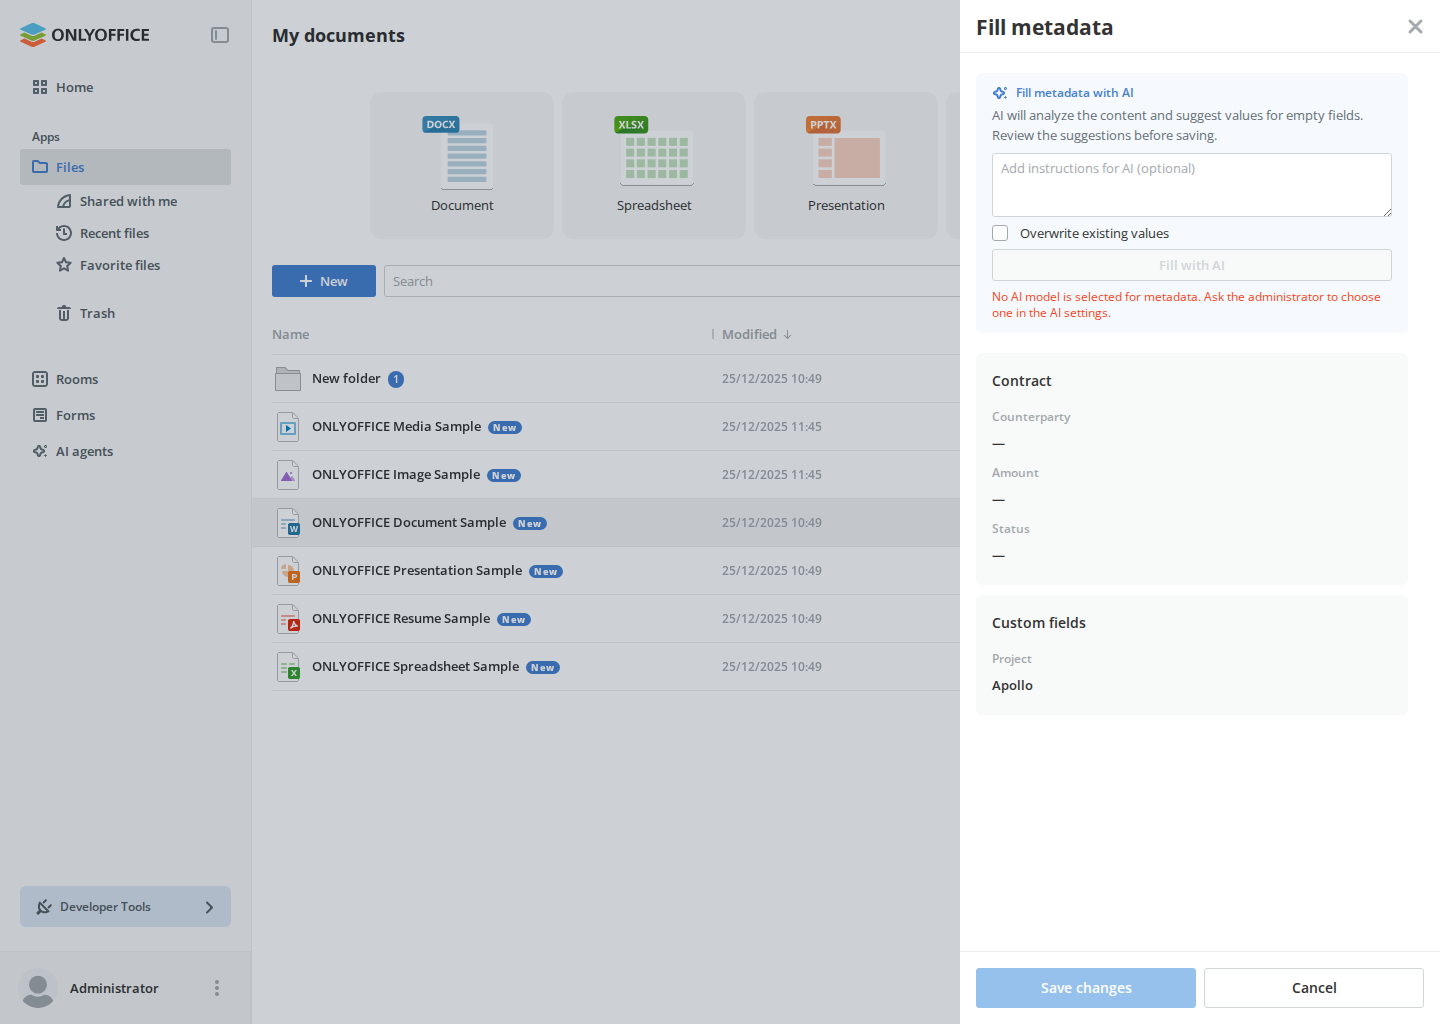
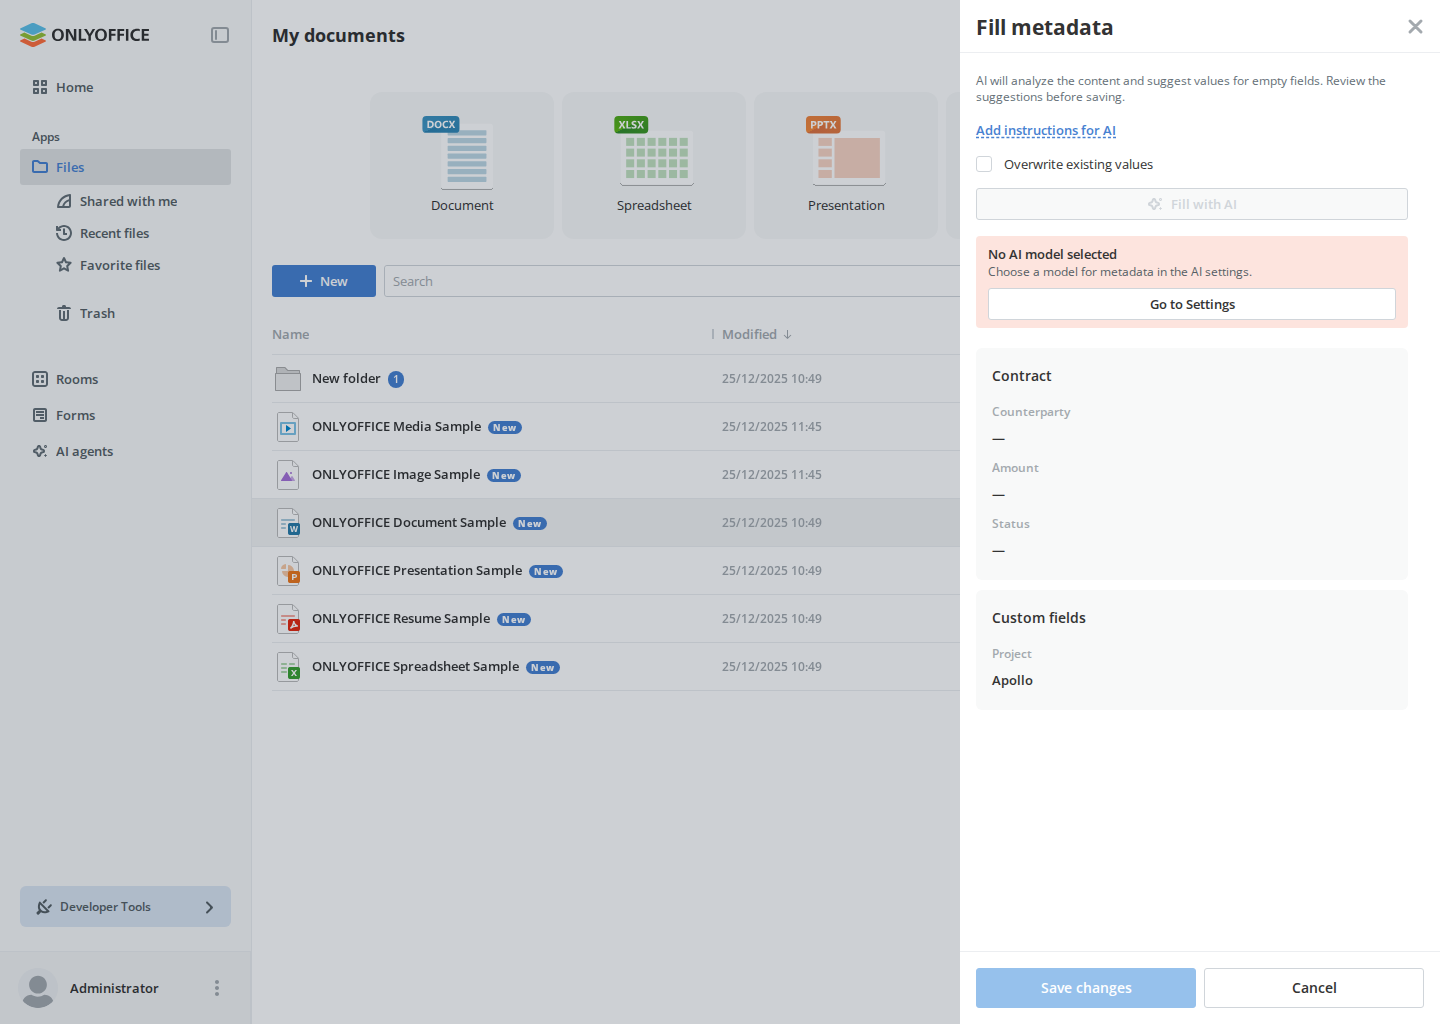
Client: Metadata: show a no-model notice in the AI panel, with a settings link for admins

Changed region(s): [[0.6562, 0.0625, 1.0, 0.4688], [0.6875, 0.5938, 0.75, 0.6875], [0.6875, 0.5, 0.7188, 0.5312]]

diff --git a/packages/client/src/components/panels/MetadataAIPanel/index.tsx b/packages/client/src/components/panels/MetadataAIPanel/index.tsx
@@ -55,11 +55,11 @@ import { useUndoShortcut } from "./hooks/useUndoShortcut";
 import type { TMetadataAIMode } from "./types";
 import { isSameEntry } from "./utils";
 import AICallout from "./sub-components/AICallout";
+import AINotice from "./sub-components/AINotice";
 import AIPrompt from "./sub-components/AIPrompt";
 import CustomFieldList from "./sub-components/CustomFieldList";
 import FillForms from "./sub-components/FillForms";
 import ReviewNotes from "./sub-components/ReviewNotes";
-import ServiceLimitNotice from "./sub-components/ServiceLimitNotice";
 import styles from "./MetadataAIPanel.module.scss";
 
 type MetadataAIDialogProps = {
@@ -117,33 +117,53 @@ const MetadataAIDialog = ({
 
   const getCalloutError = () => {
     if (error) return error;
-    if (hasNoModel) return t("Metadata:AINoModel");
     if (hasNothingToFill) return t("Metadata:AINothingToFill");
 
     return "";
   };
 
-  const getServiceLimitNotice = () => {
-    if (!serviceLimit) return undefined;
+  const openAISettings = (page: string) => () => {
+    onClose();
+    navigate(`/portal-settings/ai-settings/${page}`);
+  };
 
-    const openLimits = () => {
-      onClose();
-      navigate("/portal-settings/ai-settings/limits");
-    };
+  const getNotice = () => {
+    if (serviceLimit) {
+      return (
+        <AINotice
+          title={t("Common:AILimitReached")}
+          description={getServiceLimitDescription(
+            t,
+            language,
+            serviceLimit,
+            isAdmin,
+          )}
+          buttonLabel={t("Common:ChangeAILimit")}
+          onClick={isAdmin ? openAISettings("limits") : undefined}
+          dataTestId="metadata_ai_limit_notice"
+          buttonTestId="metadata_ai_change_limit_button"
+        />
+      );
+    }
 
-    return (
-      <ServiceLimitNotice
-        title={t("Common:AILimitReached")}
-        description={getServiceLimitDescription(
-          t,
-          language,
-          serviceLimit,
-          isAdmin,
-        )}
-        buttonLabel={t("Common:ChangeAILimit")}
-        onClick={isAdmin ? openLimits : undefined}
-      />
-    );
+    if (hasNoModel) {
+      return (
+        <AINotice
+          title={t("Metadata:AINoModelTitle")}
+          description={
+            isAdmin
+              ? t("Metadata:AINoModelChoose")
+              : t("Metadata:AINoModelContactAdmin")
+          }
+          buttonLabel={t("Common:GoToSettings")}
+          onClick={isAdmin ? openAISettings("model-assignment") : undefined}
+          dataTestId="metadata_ai_no_model_notice"
+          buttonTestId="metadata_ai_choose_model_button"
+        />
+      );
+    }
+
+    return undefined;
   };
 
   const customFields = metadata ? (
@@ -223,7 +243,7 @@ const MetadataAIDialog = ({
                       : t("Metadata:SuggestMetadata")
                   }
                   error={getCalloutError()}
-                  notice={getServiceLimitNotice()}
+                  notice={getNotice()}
                   isDisabled={
                     isAnalyzing ||
                     isSaving ||

diff --git a/packages/client/__tests__/metadata-ai.spec.ts b/packages/client/__tests__/metadata-ai.spec.ts
@@ -287,27 +287,58 @@ test.describe("Metadata AI", () => {
     ).toHaveText("Generate metadata");
   });
 
-  test("explains that no model is selected", async ({
-    page,
-    baseUrl,
-    mockRequest,
-  }) => {
-    mockRequest.use(aiChatAssignmentsHandler(TEST_PORT));
+  test.describe("no model selected", () => {
+    test.beforeEach(({ mockRequest }) => {
+      mockRequest.use(aiChatAssignmentsHandler(TEST_PORT));
+    });
 
-    const panel = await openAIPanel(page, baseUrl, "fill");
+    test("leads the admin to the model assignment", async ({
+      page,
+      baseUrl,
+      mockRequest,
+    }) => {
+      mockRequest.use(selfByTypeHandler(TEST_PORT, "owner"));
 
-    await expect(
-      panel.getByText(
-        "No AI model is selected for metadata. Ask the administrator to choose one in the AI settings.",
-      ),
-    ).toBeVisible();
-    await expect(panel.getByTestId("metadata_ai_run_button")).toBeDisabled();
+      const panel = await openAIPanel(page, baseUrl, "fill");
+      const notice = panel.getByTestId("metadata_ai_no_model_notice");
 
-    await expectScreenshot(page, [
-      "desktop",
-      "metadata",
-      "metadata-ai_no-model.png",
-    ]);
+      await expect(notice).toContainText("No AI model selected");
+      await expect(notice).toContainText(
+        "Choose a model for metadata in the AI settings.",
+      );
+      await expect(panel.getByTestId("metadata_ai_run_button")).toBeDisabled();
+
+      await expectScreenshot(page, [
+        "desktop",
+        "metadata",
+        "metadata-ai_no-model.png",
+      ]);
+
+      await panel.getByTestId("metadata_ai_choose_model_button").click();
+
+      await expect(page).toHaveURL(
+        /\/portal-settings\/ai-settings\/model-assignment$/,
+      );
+      await expect(page.getByTestId("metadata_ai_panel")).toHaveCount(0);
+    });
+
+    test("sends a regular user to the Full admin", async ({
+      page,
+      baseUrl,
+      mockRequest,
+    }) => {
+      mockRequest.use(selfByTypeHandler(TEST_PORT, "regular"));
+
+      const panel = await openAIPanel(page, baseUrl, "fill");
+      const notice = panel.getByTestId("metadata_ai_no_model_notice");
+
+      await expect(notice).toContainText(
+        "Contact the Full admin to choose a model for metadata.",
+      );
+      await expect(
+        panel.getByTestId("metadata_ai_choose_model_button"),
+      ).toHaveCount(0);
+    });
   });
 
   test("reports an unexpected server error", async ({

diff --git a/packages/client/src/components/panels/MetadataAIPanel/sub-components/AINotice.tsx b/packages/client/src/components/panels/MetadataAIPanel/sub-components/AINotice.tsx
@@ -38,34 +38,34 @@ import { Text } from "@onlyoffice/apps-ui-kit/components/text";
 
 import styles from "../MetadataAIPanel.module.scss";
 
-type ServiceLimitNoticeProps = {
+type AINoticeProps = {
   title: string;
   description: string;
   buttonLabel: string;
   onClick?: () => void;
+  dataTestId: string;
+  buttonTestId: string;
 };
 
-const ServiceLimitNotice = ({
+const AINotice = ({
   title,
   description,
   buttonLabel,
   onClick,
-}: ServiceLimitNoticeProps) => (
-  <div className={styles.limitNotice} data-testid="metadata_ai_limit_notice">
+  dataTestId,
+  buttonTestId,
+}: AINoticeProps) => (
+  <div className={styles.notice} data-testid={dataTestId}>
     <div>
       <Text
-        className={styles.limitNoticeTitle}
+        className={styles.noticeTitle}
         fontSize="13px"
         fontWeight={600}
         lineHeight="20px"
       >
         {title}
       </Text>
-      <Text
-        className={styles.limitNoticeText}
-        fontSize="12px"
-        lineHeight="16px"
-      >
+      <Text className={styles.noticeText} fontSize="12px" lineHeight="16px">
         {description}
       </Text>
     </div>
@@ -74,10 +74,10 @@ const ServiceLimitNotice = ({
         size={ButtonSize.small}
         label={buttonLabel}
         onClick={onClick}
-        testId="metadata_ai_change_limit_button"
+        testId={buttonTestId}
       />
     ) : null}
   </div>
 );
 
-export default ServiceLimitNotice;
+export default AINotice;

diff --git a/packages/client/src/components/panels/MetadataAIPanel/__tests__/utils.test.ts b/packages/client/src/components/panels/MetadataAIPanel/__tests__/utils.test.ts
@@ -61,6 +61,7 @@ import {
   getMetadataAIModel,
   getUndoShortcut,
   isSameEntry,
+  isMetadataAINoModel,
   isPanelKeyTarget,
   isTextEditable,
   isValidSuggestion,
@@ -451,8 +452,13 @@ describe("service answers", () => {
     ).toEqual(["scan.png", "11"]);
   });
 
+  it("tells a missing model apart from the other refusals", () => {
+    expect(isMetadataAINoModel({ status: 503 })).toBe(true);
+    expect(isMetadataAINoModel({ status: 502 })).toBe(false);
+    expect(isMetadataAINoModel(null)).toBe(false);
+  });
+
   it("explains each refusal of the AI service", () => {
-    expect(getMetadataAIError(t, { status: 503 })).toBe("Metadata:AINoModel");
     expect(getMetadataAIError(t, { status: 422, skipped: [] })).toBe(
       "Metadata:AINothingToRead",
     );

diff --git a/packages/client/src/components/panels/MetadataAIPanel/utils.ts b/packages/client/src/components/panels/MetadataAIPanel/utils.ts
@@ -388,6 +388,9 @@ export const getMetadataAIServiceLimit = (error: unknown) => {
   return getServiceLimitChatError({ code, message: providerMessage });
 };
 
+export const isMetadataAINoModel = (error: unknown) =>
+  (error as TMetadataAIError | null)?.status === 503;
+
 export const getMetadataAIError = (t: TTranslation, error: unknown) => {
   const { status, skipped } = (error ?? {}) as TMetadataAIError;
 
@@ -402,8 +405,6 @@ export const getMetadataAIError = (t: TTranslation, error: unknown) => {
       return t("Metadata:AIBusy");
     case 502:
       return t("Metadata:AIFailed");
-    case 503:
-      return t("Metadata:AINoModel");
     case 504:
       return t("Metadata:AITimeout");
     default:

diff --git a/packages/client/src/components/panels/MetadataAIPanel/hooks/useMetadataAIPanel.ts b/packages/client/src/components/panels/MetadataAIPanel/hooks/useMetadataAIPanel.ts
@@ -79,6 +79,7 @@ import {
   getSkippedTitles,
   getSuggestNotFound,
   getTemplateForms,
+  isMetadataAINoModel,
   isValidSuggestion,
   revertAICustomValue,
   revertAIValue,
@@ -230,6 +231,7 @@ export const useMetadataAIPanel = ({
       const limit = getMetadataAIServiceLimit(e);
 
       if (limit) setServiceLimit(limit);
+      else if (isMetadataAINoModel(e)) setModel(null);
       else setError(getMetadataAIError(t, e));
       setPhase("ready");
     }

diff --git a/packages/client/src/components/panels/MetadataAIPanel/MetadataAIPanel.module.scss b/packages/client/src/components/panels/MetadataAIPanel/MetadataAIPanel.module.scss
@@ -109,7 +109,7 @@
   color: var(--input-error-color);
 }
 
-.limitNotice {
+.notice {
   display: flex;
   flex-direction: column;
   gap: 8px;
@@ -118,11 +118,11 @@
   background-color: color-mix(in srgb, var(--input-error-color) 15%, transparent);
 }
 
-.limitNoticeTitle {
+.noticeTitle {
   color: var(--info-block-header-color);
 }
 
-.limitNoticeText {
+.noticeText {
   color: var(--info-block-description-color);
 }
 
